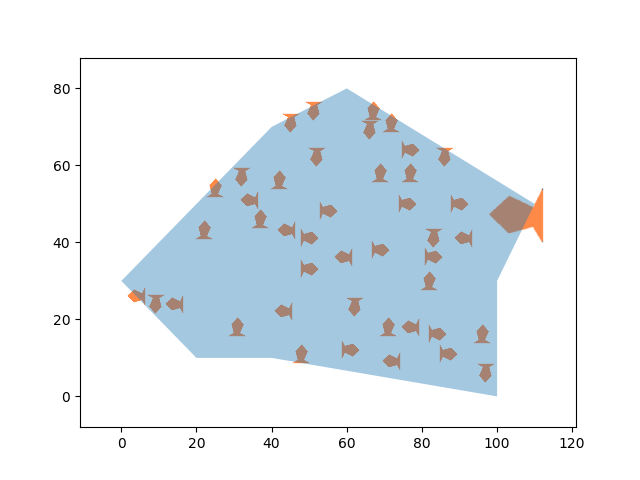
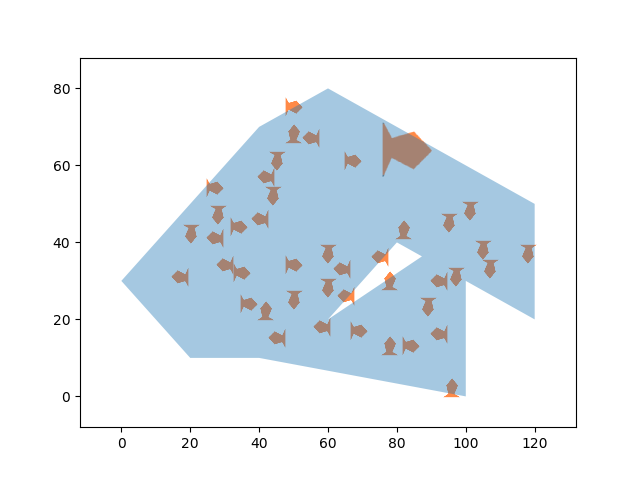
add non-simply poly

diff --git a/fish_schooling.py b/fish_schooling.py
@@ -19,8 +19,8 @@ logger = logging.getLogger(__name__)
 REBUILD_DIRECTORIES = ('output',)
 FISH_TO_SPAWN = 50
 
-
-poly = ((0, 30), (20, 10), (40, 10), (100, 0), (100, 30), (110, 50), (60, 80), (40, 70), (0, 30))
+poly = ((0, 30), (20, 10), (40, 10), (100, 0), (100, 30), (110, 50), (60, 20), (80, 40), (120, 20), (120, 50), (60, 80),
+        (40, 70), (0, 30))
 
 # create directories
 for dir in REBUILD_DIRECTORIES:
